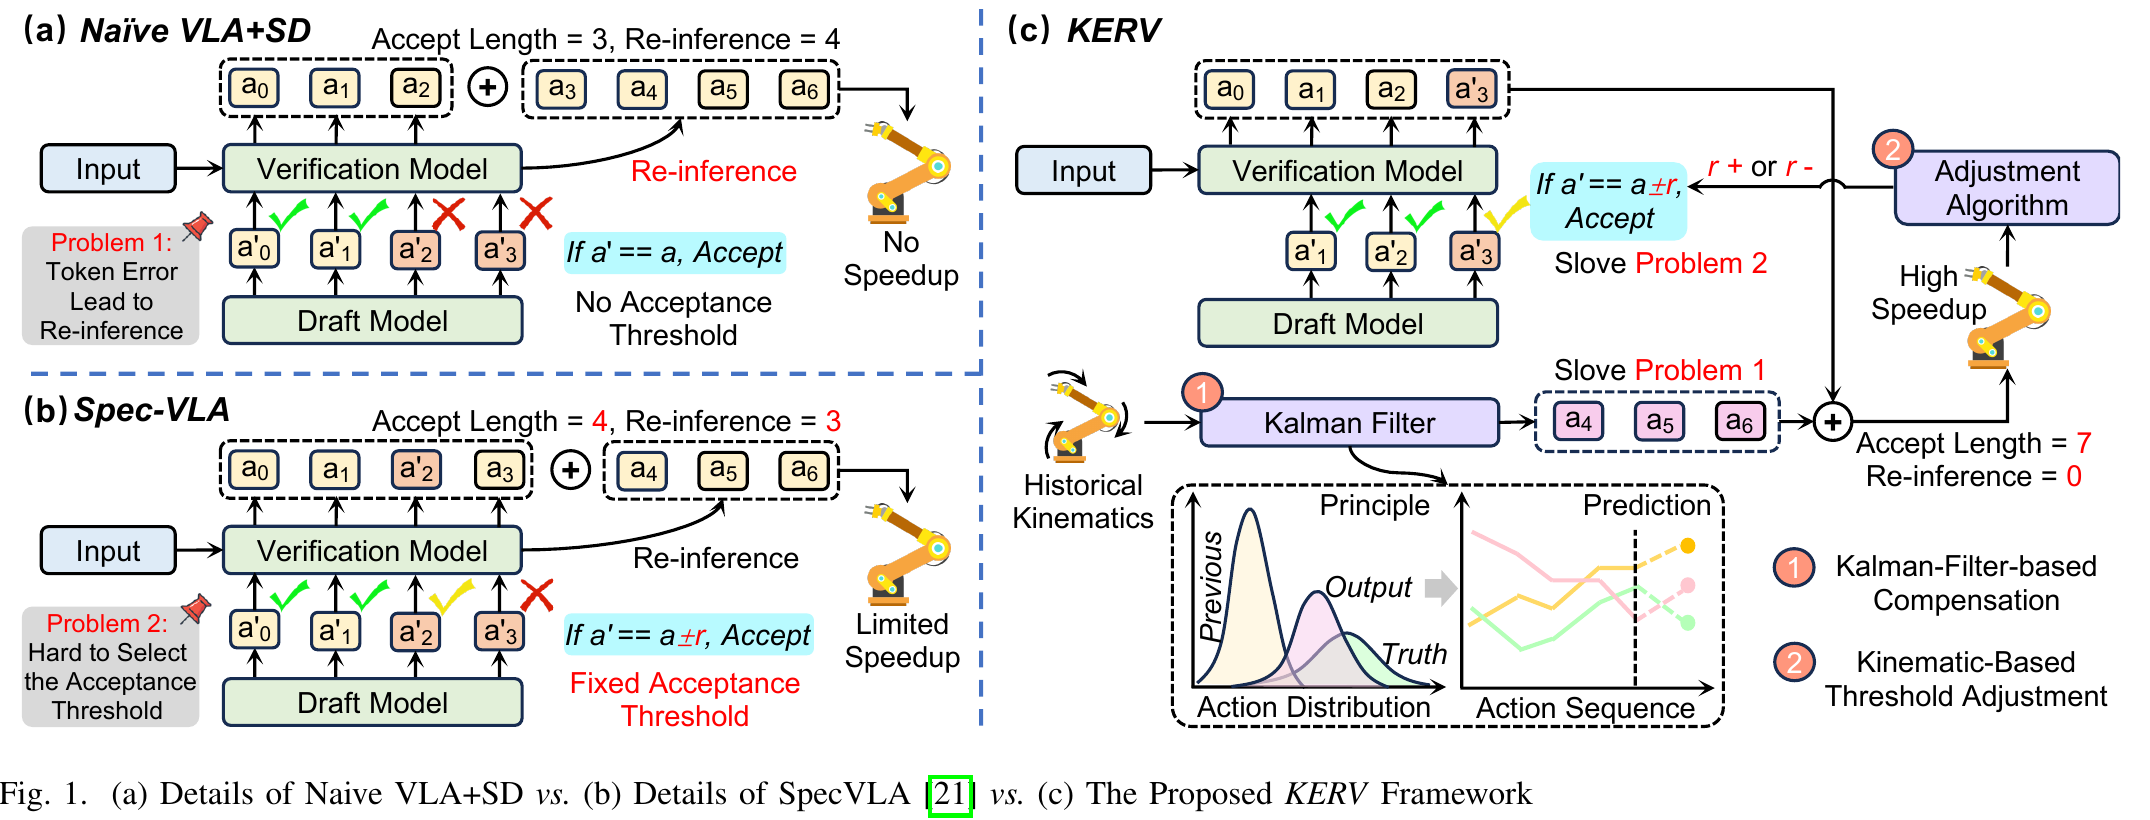
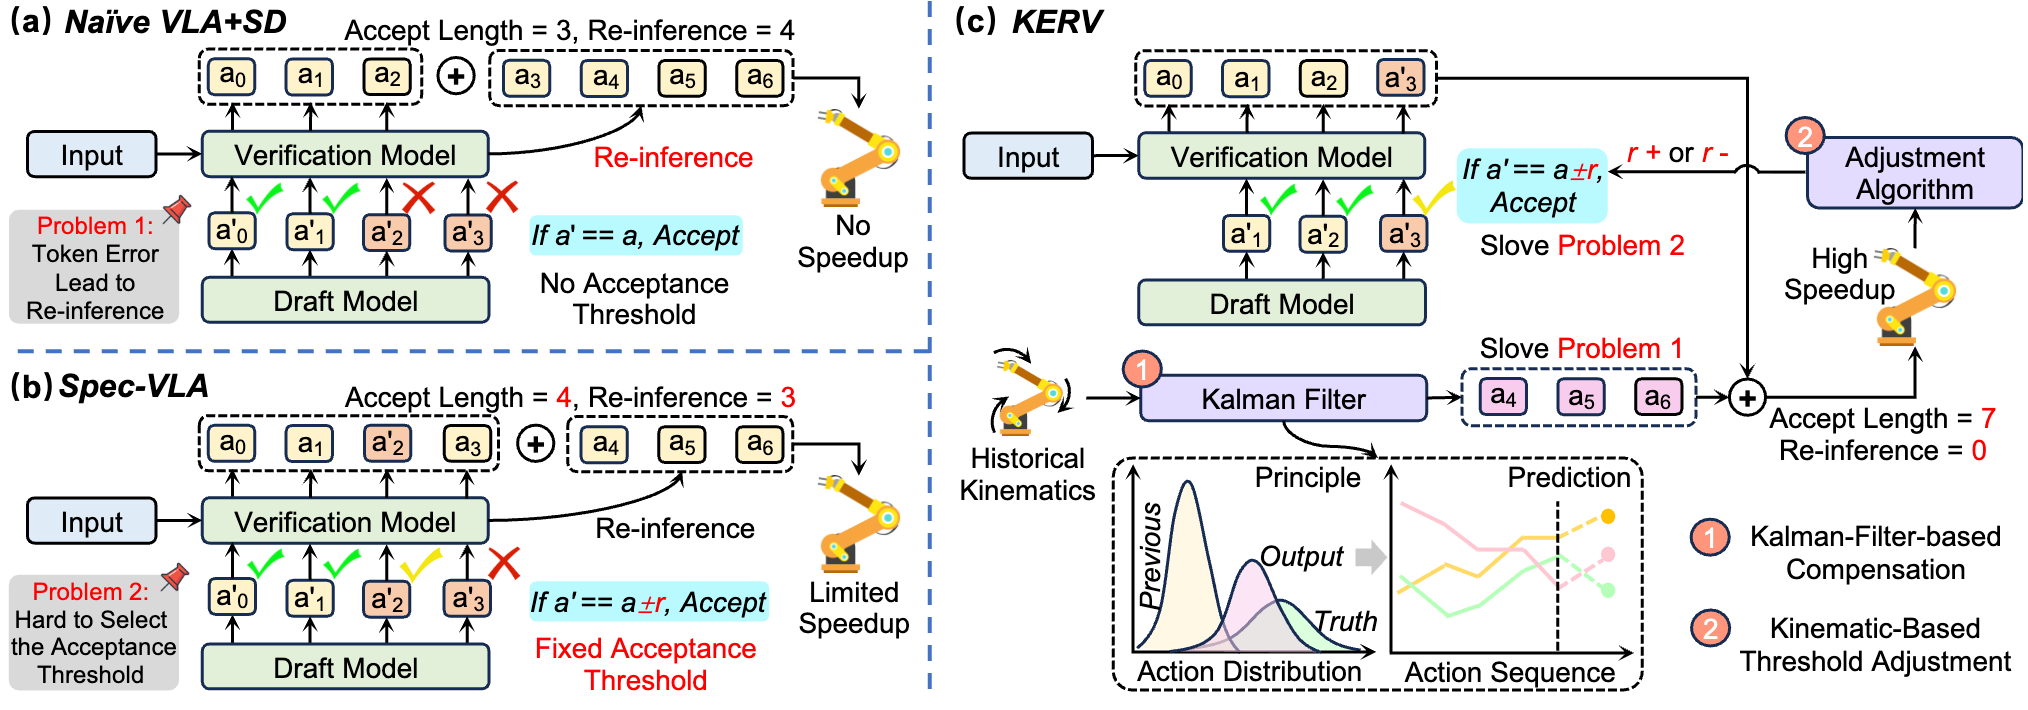
Add project news and clean overview figure

diff --git a/README.md b/README.md
@@ -23,7 +23,12 @@
   </a>
 </p>
 
-<p align="center"><strong>🔥 KERV has been accepted by DAC 2026!</strong></p>
+## News
+
+- **2026-08** — 🚀 We open-sourced KERV and its runtime optimization.
+- **2026-07** — 🤝 We partnered with BAAI to optimize KERV based on FlagOS.
+- **2026-07** — ⚙ We added runtime optimizations to KERV.
+- **2026-03** — 🔥 KERV has been accepted by **DAC 2026**!
 
 KERV is a speculative decoding framework for accelerating autoregressive
 Vision-Language-Action (VLA) models. It connects token-domain VLA generation
